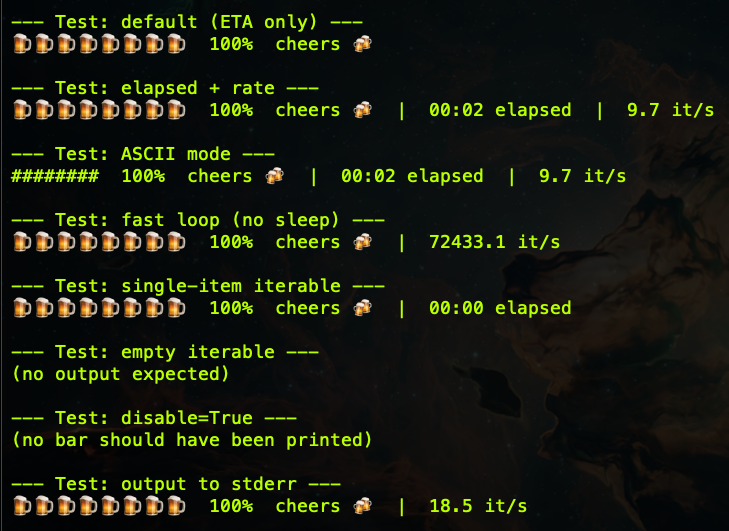
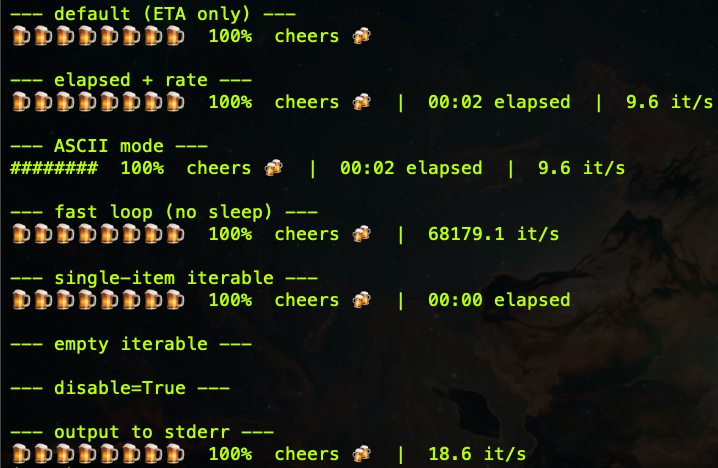
demo.py fix and image fix

diff --git a/demo/demo.py b/demo/demo.py
@@ -4,13 +4,13 @@ from brewbar import bar
 
 
 def test_default():
-    print("\n--- Test: default (ETA only) ---")
+    print("\n--- default (ETA only) ---")
     for _ in bar(range(20)):
         time.sleep(0.1)
 
 
 def test_elapsed_and_rate():
-    print("\n--- Test: elapsed + rate ---")
+    print("\n--- elapsed + rate ---")
     for _ in bar(
         range(20),
         elapsed=True,
@@ -20,7 +20,7 @@ def test_elapsed_and_rate():
 
 
 def test_ascii_mode():
-    print("\n--- Test: ASCII mode ---")
+    print("\n--- ASCII mode ---")
     for _ in bar(
         range(20),
         elapsed=True,
@@ -31,7 +31,7 @@ def test_ascii_mode():
 
 
 def test_fast_loop():
-    print("\n--- Test: fast loop (no sleep) ---")
+    print("\n--- fast loop (no sleep) ---")
     for _ in bar(
         range(500),
         rate=True,
@@ -40,7 +40,7 @@ def test_fast_loop():
 
 
 def test_single_item():
-    print("\n--- Test: single-item iterable ---")
+    print("\n--- single-item iterable ---")
     for _ in bar(
         range(1),
         elapsed=True,
@@ -50,21 +50,19 @@ def test_single_item():
 
 
 def test_empty_iterable():
-    print("\n--- Test: empty iterable ---")
+    print("\n--- empty iterable ---")
     for _ in bar(range(0)):
         pass
-    print("(no output expected)")
 
 
 def test_disable():
-    print("\n--- Test: disable=True ---")
+    print("\n--- disable=True ---")
     for _ in bar(range(20), disable=True):
         time.sleep(0.05)
-    print("(no bar should have been printed)")
 
 
 def test_stderr():
-    print("\n--- Test: output to stderr ---")
+    print("\n--- output to stderr ---")
     for _ in bar(range(20), rate=True, file=sys.stderr):
         time.sleep(0.05)
 
@@ -78,5 +76,3 @@ if __name__ == "__main__":
     test_empty_iterable()
     test_disable()
     test_stderr()
-
-    print("\n🍺 All brewbar tests completed.\n")

diff --git a/brewbar/__init__.py b/brewbar/__init__.py
@@ -2,4 +2,4 @@ from .core import bar, BrewBar
 
 __all__ = ["bar", "BrewBar"]
 
-__version__ = "1.1.0"
+__version__ = "1.1.1"
